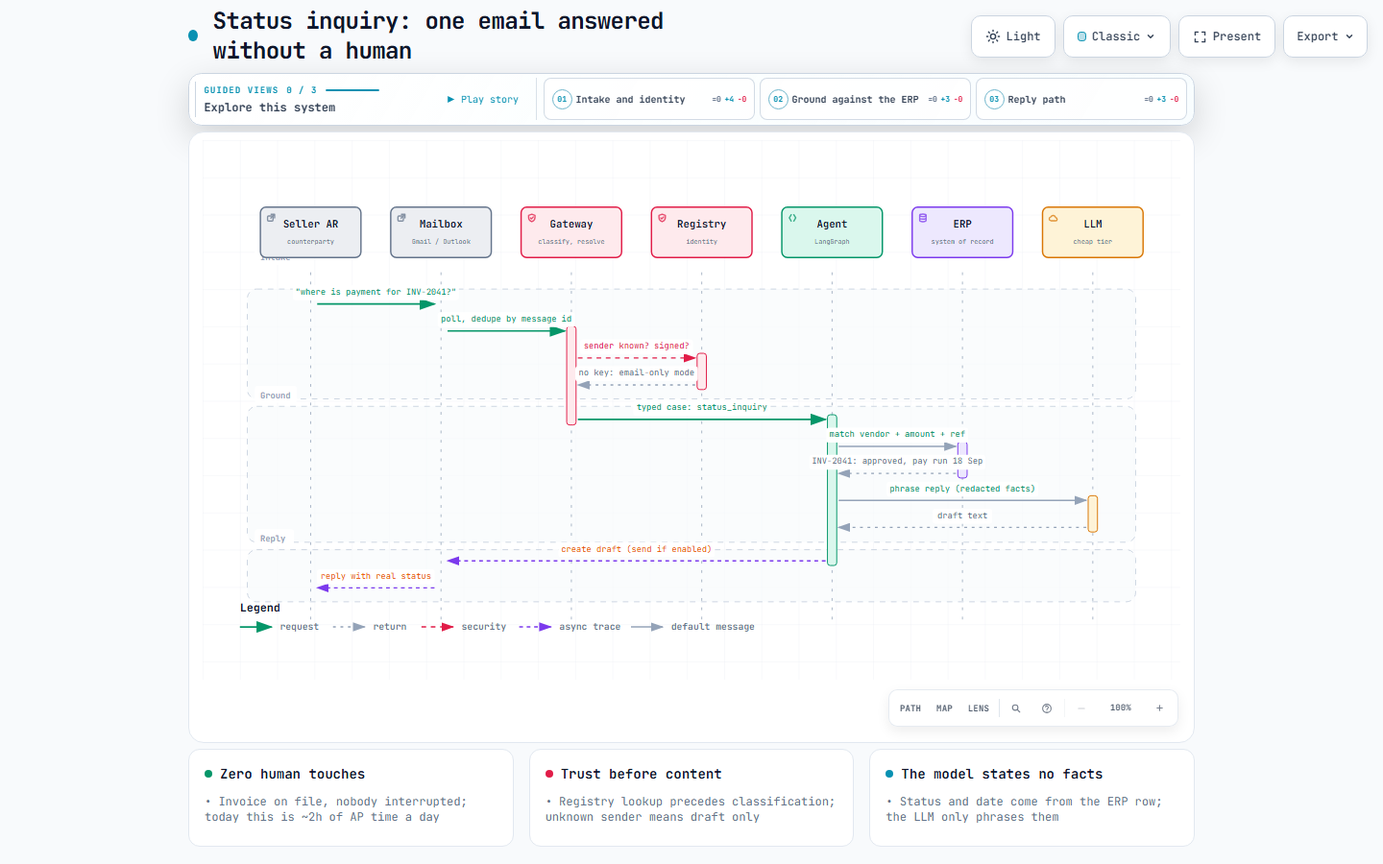
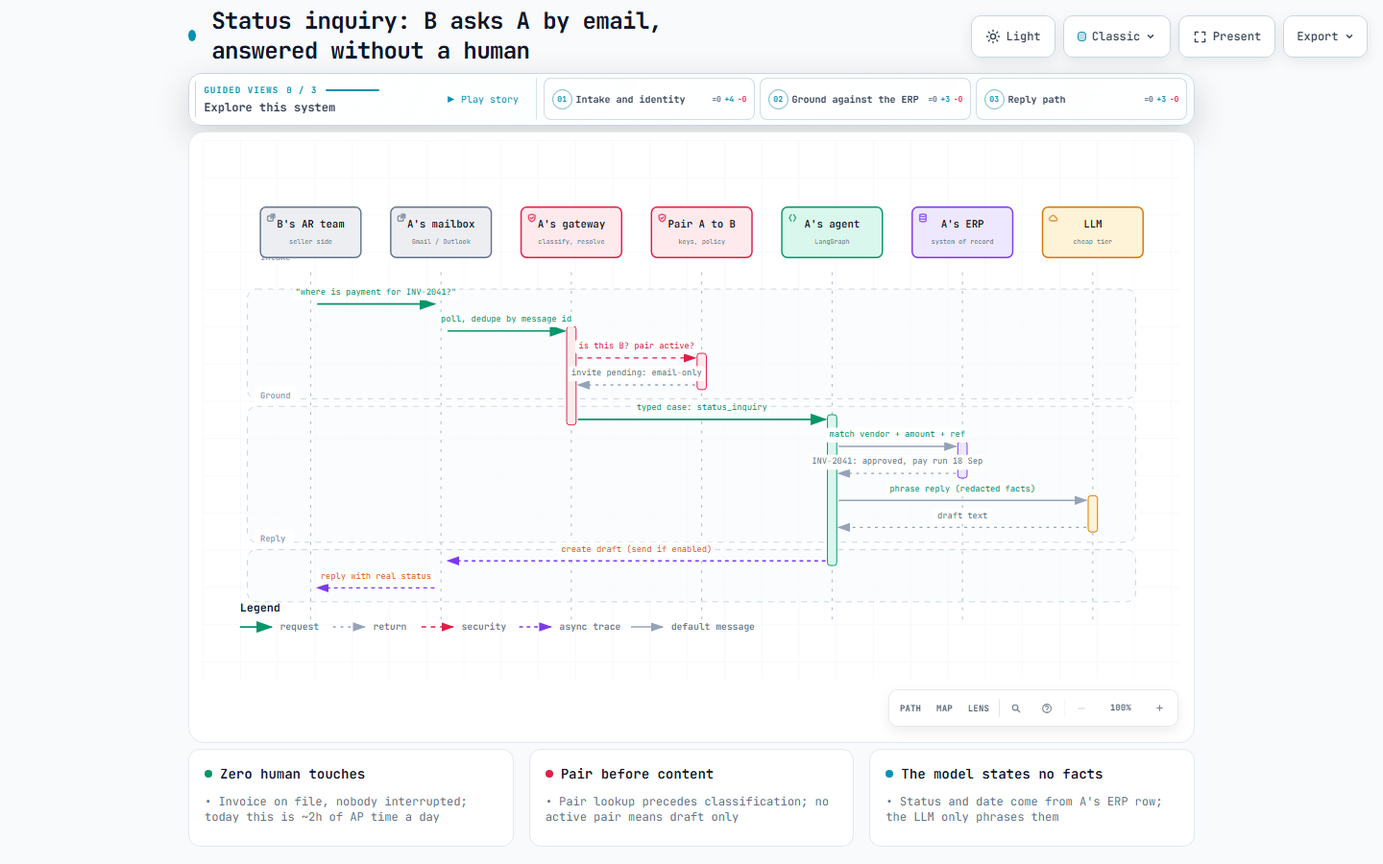
Relabel status-inquiry sequence for the pair model; update diagram index and roadmap
Claude-Session: https://claude.ai/code/session_014V52MLJxxwVzEFNoNt6dGK

diff --git a/docs/diagrams/status-inquiry.html b/docs/diagrams/status-inquiry.html
@@ -4,7 +4,7 @@
   <meta charset="UTF-8">
   <meta name="viewport" content="width=device-width, initial-scale=1.0">
   <meta name="generator" content="archify 2.17.0-dev.1">
-  <title>Status inquiry: one email answered without a human Diagram</title>
+  <title>Status inquiry: B asks A by email, answered without a human Diagram</title>
   <script>
     // Resolve the theme before first paint so light-preference users don't
     // see a dark flash. The toolbar script below re-applies with UI state.
@@ -4955,11 +4955,11 @@
            data-preset-badge-blueprint="BLUEPRINT / REV 01"
            data-preset-badge-editorial="EDITORIAL / FIELD NOTE">
         <div class="pulse-dot"></div>
-        <h1>Status inquiry: one email answered without a human</h1>
+        <h1>Status inquiry: B asks A by email, answered without a human</h1>
       </div>
     </div>
 
-    <script id="archify-guided-views-data" type="application/json">[{"id":"intake","label":"Intake and identity","focus":["seller","mailbox","gateway","registry"],"note":"The sender is checked against the registry before anything is trusted. No key means email-only mode."},{"id":"ground","label":"Ground against the ERP","focus":["agent","erp","llm"],"note":"The answer comes from the system of record. The model only phrases it."},{"id":"reply","label":"Reply path","focus":["agent","mailbox","seller"],"note":"Draft by default. Sends only if this counterparty and message type are enabled."}]</script>
+    <script id="archify-guided-views-data" type="application/json">[{"id":"intake","label":"Intake and identity","focus":["seller","mailbox","gateway","registry"],"note":"The sender is matched to a pair before anything is trusted. Invite still pending means email-only mode."},{"id":"ground","label":"Ground against the ERP","focus":["agent","erp","llm"],"note":"The answer comes from A's system of record. The model only phrases it."},{"id":"reply","label":"Reply path","focus":["agent","mailbox","seller"],"note":"Draft by default. Sends only if this pair has autonomous replies switched on for this message type."}]</script>
 
     <script id="archify-i18n-data" type="application/json">{"locale":"en","messages":{"viewer.kind.frontend":"Frontend","viewer.kind.backend":"Backend","viewer.kind.database":"Database","viewer.kind.cloud":"Cloud","viewer.kind.security":"Security","viewer.kind.messagebus":"Message bus","viewer.kind.external":"External","viewer.kind.neutral":"Neutral","viewer.kind.node":"Node","viewer.kind.start":"Start","viewer.kind.active":"Active","viewer.kind.waiting":"Waiting","viewer.kind.decision":"Decision","viewer.kind.success":"Success","viewer.kind.failure":"Failure","viewer.toolbar.actions":"Diagram actions","viewer.theme.toggle.title":"Toggle theme (T)","viewer.theme.toggle":"Toggle color theme","viewer.theme.dark":"Dark","viewer.theme.light":"Light","viewer.preset.choose.title":"Choose visual style (S cycles)","viewer.preset.choose":"Choose visual style","viewer.preset.style":"Style","viewer.preset.menu":"Visual style","viewer.preset.identity":"Visual identity","viewer.preset.cycles":"S cycles","viewer.preset.classic":"Classic","viewer.preset.classic.short":"Classic","viewer.preset.classic.hint":"Stable technical default","viewer.preset.flow":"Signal Flow","viewer.preset.flow.short":"Flow","viewer.preset.flow.hint":"Motion-forward presentation","viewer.preset.blueprint":"Blueprint","viewer.preset.blueprint.hint":"Engineering review","viewer.preset.editorial":"Editorial","viewer.preset.editorial.hint":"Publication and launch notes","viewer.preset.badge.signalFlow":"SIGNAL FLOW","viewer.preset.badge.blueprint":"BLUEPRINT / REV 01","viewer.preset.badge.editorial":"EDITORIAL / FIELD NOTE","viewer.preset.badge.editorialPlate":"ARCHIFY / PLATE 04","viewer.preset.current":"Visual style: {style}. Choose visual style","viewer.motion.live":"Live","viewer.motion.still":"Still","viewer.motion.pause":"Pause motion","viewer.motion.resume":"Resume motion","viewer.motion.reduced":"Motion paused by reduced-motion preference","viewer.motion.hidden":"Motion paused while this page is hidden","viewer.motion.yielding":"Pause motion; currently yielding to {owner}","viewer.motion.yielding.title":"Live preview enabled · yielding to {owner}","viewer.owner.story":"the guided story","viewer.owner.chapter":"the active chapter","viewer.owner.chapterPreview":"the chapter delta preview","viewer.owner.handoff":"the chapter handoff","viewer.owner.route":"Route Probe","viewer.owner.lens":"Semantic Lens","viewer.owner.relationship":"Relationship Preview","viewer.owner.intent":"Intent Trace","viewer.owner.focus":"semantic focus","viewer.owner.legend":"legend preview","viewer.owner.reader":"reader interaction","viewer.present.enter":"Enter presentation stage","viewer.present.enter.title":"Presentation stage (F)","viewer.present.exit":"Exit presentation stage","viewer.present.exit.title":"Exit presentation stage (F or Escape)","viewer.present.present":"Present","viewer.present.exit.label":"Exit","viewer.export.button":"Export","viewer.export.button.title":"Export diagram (E)","viewer.export.diagram":"Export diagram","viewer.export.menu":"Export","viewer.export.subtitle":"Portable, clean outputs","viewer.export.share":"Share","viewer.export.shareCard":"Share Card","viewer.export.routeShareCard":"Route Share Card","viewer.export.reachShareCard":"Reach Share Card","viewer.export.copyShareCard":"Copy Share Card","viewer.export.copyDiagram":"Copy diagram","viewer.export.clipboardPng":"PNG to clipboard","viewer.export.raster":"Raster images","viewer.export.image":"Image","viewer.export.lossless":"Lossless image","viewer.export.compact":"Compact image","viewer.export.modern":"Modern image","viewer.export.vectorMotion":"Vector and motion","viewer.export.vectorMotion.heading":"Vector \u0026 motion","viewer.export.editable":"Editable vector","viewer.export.motion6s":"6s motion","viewer.export.unsupported":"Not supported by this browser","viewer.export.clipboardUnsupported":"Clipboard image write not supported by this browser","viewer.export.clipboardUnsupported.period":"Clipboard image write not supported by this browser.","viewer.export.clipboardUnsupported.short":"Clipboard image write not supported in this browser.","viewer.export.motionUnavailable":"Motion capture unavailable in this browser","viewer.export.webmUnavailable":"WebM unavailable in this browser","viewer.export.failed":"Export failed: {message}","viewer.export.unknownVariant":"Unknown Share Card variant: {variant}","viewer.export.routeRequired":"Trace a route before exporting a Route Share Card","viewer.export.reachRequired":"Trace authored reach before exporting a Reach Share Card","viewer.export.unknown":"unknown","viewer.export.routeFailed":"Route Share Card export failed: {message}","viewer.export.reachFailed":"Reach Share Card export failed: {message}","viewer.export.copyFailed":"Copy failed: {message}","viewer.export.copiedPng":"Copied PNG to clipboard","viewer.export.copiedShare":"Copied Share Card","viewer.export.downloadedShare":"Downloaded Share Card","viewer.export.downloadedRoute":"Downloaded Route Share Card","viewer.export.downloadedReach":"Downloaded Reach Share Card","viewer.export.downloadedWebm":"Downloaded WebM","viewer.export.recording":"Recording 6 seconds of motion…","viewer.export.card.routeSummary.one":"Route: {source} → {target} · {count} directed hop","viewer.export.card.routeSummary.other":"Route: {source} → {target} · {count} directed hops","viewer.export.card.reachSummary":"Authored {direction} from {origin} · {nodes} · {links} · max {hops}","viewer.export.card.node.one":"{count} node","viewer.export.card.node.other":"{count} nodes","viewer.export.card.link.one":"{count} link","viewer.export.card.link.other":"{count} links","viewer.export.card.hop.one":"{count} hop","viewer.export.card.hop.other":"{count} hops","viewer.export.card.routeBadge":"ARCHIFY · ROUTE · {hops}","viewer.export.card.reachBadge":"ARCHIFY · {direction} REACH","viewer.export.card.defaultBadge":"ARCHIFY · {preset} · {theme}","viewer.export.direction.upstream":"Upstream","viewer.export.direction.downstream":"Downstream","viewer.export.error.canvasUnavailable":"Canvas unavailable for {label}","viewer.export.error.contextUnavailable":"2D canvas context unavailable for {label}","viewer.export.error.toBlobUnavailable":"canvas.toBlob unavailable for {label}","viewer.export.error.toBlobNull":"canvas.toBlob returned no data for {label}","viewer.export.error.variantsCombined":"Share Card variants cannot be combined","viewer.export.error.viewerState":"Share Card export could not remove temporary viewer state","viewer.export.error.routeState":"Route Card export could not preserve the resolved route safely","viewer.export.error.reachState":"Reach Card export could not preserve authored reach safely","viewer.export.error.webmRequirements":"WebM motion export requires a trace animation and browser MediaRecorder support","viewer.export.error.mediaRecorder":"MediaRecorder failed","viewer.export.error.emptyWebm":"MediaRecorder produced an empty WebM","viewer.export.error.webmBackground":"SVG background could not be loaded for WebM export","viewer.guided.region":"Guided diagram views","viewer.guided.previous":"Previous guided view","viewer.guided.previous.title":"Previous guided view ([)","viewer.guided.next":"Next guided view","viewer.guided.next.title":"Next guided view (])","viewer.guided.views":"Guided views","viewer.guided.explore":"Explore this system","viewer.guided.intro":"Step through curated paths without changing the source diagram.","viewer.guided.trail":"Story trail","viewer.guided.beat":"Beat","viewer.guided.nextBeat":"Next","viewer.guided.play":"Play guided story","viewer.guided.play.title":"Play guided story (P)","viewer.guided.pause":"Pause guided story","viewer.guided.pause.title":"Pause guided story (P)","viewer.guided.replay":"Replay guided story","viewer.guided.replay.title":"Replay guided story (P)","viewer.guided.playStory":"Play story","viewer.guided.pauseStory":"Pause","viewer.guided.replayStory":"Replay story","viewer.guided.motionUnavailable":"Story playback unavailable while motion is Still","viewer.guided.enableMotion":"Switch motion to Live to play the guided story","viewer.guided.selectBeatLink":"Select a Story Beat to copy its exact link","viewer.guided.copyMoment":"Copy moment","viewer.guided.momentCopied":"Moment link copied","viewer.guided.momentCopyFailed":"Could not copy story moment link","viewer.guided.copied":"Copied","viewer.guided.copyFailed":"Copy failed","viewer.guided.showAll":"Show all","viewer.guided.showAll.aria":"Show entire diagram","viewer.guided.chapters":"Story chapters","viewer.guided.storyTrail":"Story trail for {label}: {count} beats","viewer.guided.chapter.open":"Open chapter {index} of {total}: {label}, {count} stops","viewer.guided.chapter.current":"Current chapter {index} of {total}: {label}, {count} stops","viewer.guided.chapter.selectedNodes":"{count} selected nodes","viewer.guided.chapter.stops":"{count} stops","viewer.guided.chapter.stop.one":"{count} stop","viewer.guided.chapter.stop.other":"{count} stops","viewer.guided.chapter.current.title":"{label} — current chapter, {count} stops","viewer.guided.chapter.delta.expanded":"{stay} stay, {enter} enter, {leave} leave","viewer.guided.chapter.delta.aria":"Open chapter {index} of {total}: {label}. Chapter focus delta: {delta}","viewer.guided.chapter.delta.title":"{label} — {delta} chapter focus","viewer.guided.handoff":"{from} → {to} · via {label}","viewer.guided.share.chapter":"Chapter {index} / {total}","viewer.guided.share.initial":"Chapter 01 / 01","viewer.guided.share.default":"Guided chapter","viewer.guided.state.ready":"Ready","viewer.guided.state.playing":"Playing","viewer.guided.state.settled":"Settled","viewer.guided.state.paused":"Paused","viewer.guided.state.pinned":"Pinned","viewer.guided.state.still":"Still","viewer.guided.share.step":"Step {index} / {total} · {label}","viewer.guided.share.staticMoment":"{step} · Static moment","viewer.guided.share.complete":"{count} steps complete · {note}","viewer.guided.share.settled":"Path settled for reading.","viewer.guided.share.staticPath":"{count} steps · Static path","viewer.guided.share.ready":"{count} steps · Ready","viewer.guided.share.aria":"{state} chapter {index} of {total}: {label}. {beat}. {route}","viewer.guided.beat.start":"Beat {index} / {total} · {label} · starting point","viewer.guided.beat.forward":"Beat {index} / {total} · {from} → {to}","viewer.guided.beat.reverse":"Beat {index} / {total} · {from} → {to} · reverse authored link","viewer.guided.beat.multiple":"Beat {index} / {total} · {from} ⇄ {to} · {count} authored links","viewer.guided.beat.group":"Beat {index} / {total} · {from} · {to} · grouped · no direct link","viewer.guided.beat.aria.prefix":"Story beat {index} of {total}: {label}. ","viewer.guided.beat.aria.start":"Starting point.","viewer.guided.beat.aria.forward":"From {from} through one authored forward relationship.","viewer.guided.beat.aria.reverse":"From {from}; the authored relationship points from {to} to {from}.","viewer.guided.beat.aria.multiple":"From {from} through {count} authored relationships; shown without arbitrary motion.","viewer.guided.beat.aria.group":"Grouped from {from} with no direct authored relationship.","viewer.guided.caption.start":"Starting point","viewer.guided.caption.grouped":"Grouped transition · no direct authored link","viewer.guided.caption.more":" +{count} more","viewer.guided.caption.reverse":"Reverse authored relationship","viewer.guided.caption.relationships":"{count} authored relationships","viewer.guided.caption.relationship":"Authored relationship","viewer.guided.caption.direction":"authored direction: {from} → {to}","viewer.guided.caption.starting":"Authored starting point","viewer.guided.beatLink":"Copy link to current story moment: Beat {index} of {total}: {label}","viewer.guided.noStory":"This diagram has no authored guided story.","viewer.guide.eyebrow":"Diagram guide","viewer.guide.close":"Close diagram guide","viewer.guide.inspecting":"Inspecting compiled semantics","viewer.guide.actions":"Diagram exploration actions","viewer.guide.find":"Find any node","viewer.guide.find.hint":"Search labels, responsibilities, kinds, and stable IDs.","viewer.guide.route":"Trace a route","viewer.guide.route.aria":"Trace a directed route","viewer.guide.route.hint":"Ask how two semantic nodes connect in authored direction.","viewer.guide.map":"See the whole system","viewer.guide.map.hint":"Open Semantic Radar with a live viewport and stable nodes.","viewer.guide.lens":"Compare semantic kinds","viewer.guide.lens.hint":"Count roles, reveal their traffic, and compare direct authored links.","viewer.guide.story":"Play the guided story","viewer.guide.story.hint":"Walk the authored chapters and real relationships.","viewer.guide.present":"Enter Presentation Stage","viewer.guide.present.hint":"Give the live diagram the viewport without changing export.","viewer.guide.shortcuts":"Additional keyboard shortcuts","viewer.guide.shortcut.export":"Export","viewer.guide.shortcut.theme":"Theme","viewer.guide.shortcut.style":"Style","viewer.guide.shortcut.reset":"Reset","viewer.guide.shortcut.zoomIn":"Zoom in","viewer.guide.shortcut.zoomOut":"Zoom out","viewer.guide.shortcut.close":"Close","viewer.guide.facts":"{nodes} · {relationships} · {views}","viewer.guide.fact.node.one":"{count} semantic node","viewer.guide.fact.node.other":"{count} semantic nodes","viewer.guide.fact.relationship.one":"{count} relationship","viewer.guide.fact.relationship.other":"{count} relationships","viewer.guide.fact.view.one":"{count} guided view","viewer.guide.fact.view.other":"{count} guided views","viewer.guide.story.available.one":"Walk {count} authored chapter and its real relationships.","viewer.guide.story.available.other":"Walk {count} authored chapters and their real relationships.","viewer.guide.story.unavailable":"No authored guided story in this diagram.","viewer.guide.open":"Open diagram guide","viewer.guide.noStory":"This diagram has no authored guided story.","viewer.finder.title":"Find a node","viewer.finder.close":"Close node finder","viewer.finder.placeholder":"Search labels or IDs","viewer.finder.search":"Search diagram nodes","viewer.finder.results":"Diagram nodes","viewer.finder.empty":"No matching nodes","viewer.finder.result.focus":"Focus {label}","viewer.finder.result.routeStart":"Choose {label} as route start","viewer.finder.result.routeTarget":"Choose {label} as route destination, {links}","viewer.finder.status.empty":"No matching nodes","viewer.finder.status.count.one":"{count} matching node","viewer.finder.status.count.other":"{count} matching nodes","viewer.finder.noun.nodes":"nodes","viewer.finder.link.one":"{count} link","viewer.finder.link.other":"{count} links","viewer.finder.result.focus.one":"Focus {label}, {count} related connection","viewer.finder.result.focus.other":"Focus {label}, {count} related connections","viewer.finder.status.filtered":"{visible} of {available} {noun}","viewer.finder.status.all":"{available} {noun}","viewer.passport.eyebrow":"Semantic passport","viewer.passport.metadata":"Node metadata","viewer.passport.evidence":"Verified source evidence","viewer.passport.verified":"Verified source","viewer.passport.reach":"Authored reach","viewer.passport.reach.trace":"Trace authored reachability","viewer.passport.upstream":"Upstream","viewer.passport.downstream":"Downstream","viewer.passport.upstream.trace":"Trace upstream authored reachability","viewer.passport.downstream.trace":"Trace downstream authored reachability","viewer.passport.close":"Close semantic passport","viewer.passport.copy":"Copy link","viewer.passport.copy.focus":"Copy link to focused node","viewer.passport.relations":"Relations","viewer.passport.relations.show":"Show connected relationships","viewer.passport.relations.hide":"Hide connected relationships","viewer.passport.relations.list":"Connected relationships","viewer.passport.copyRelation":"Copy relation","viewer.passport.copyNode":"Copy node","viewer.passport.copyPinned":"Copy link to pinned relationship","viewer.passport.copySource":"Copy link to source node","viewer.passport.copy.focused.success":"Focused node link copied","viewer.passport.copy.pinned.success":"Pinned relationship link copied","viewer.passport.copy.focused.failed":"Could not copy focused node link","viewer.passport.copy.pinned.failed":"Could not copy pinned relationship link","viewer.passport.relationship.none":"No connected relationships","viewer.passport.relationship.count.one":"{count} relation","viewer.passport.relationship.count.other":"{count} relations","viewer.passport.relationship.show.one":"Show {count} connected relationship","viewer.passport.relationship.show.other":"Show {count} connected relationships","viewer.passport.relationship.summary":"{out} outgoing · {in} incoming{loops}","viewer.passport.relationship.loops":" · {count} loop","viewer.passport.relationship.explorer":"Direct relationship explorer","viewer.passport.relationship.help":"Use arrow keys to explore relationships. Press Enter or Space to pin details; Escape clears.","viewer.passport.relationship.loopsBack":"loops back","viewer.passport.relationship.connectsTo":"connects to","viewer.passport.relationship.connectsFrom":"connects from","viewer.passport.relationship.pinned":"Pinned relationship · {from} → {to} · {label}","viewer.passport.relationship.inspect":"Inspect relationship {index} of {total}: {from} to {to}, {label}. Press Enter for details.","viewer.passport.relationship.group.out":"Outgoing","viewer.passport.relationship.group.in":"Incoming","viewer.passport.relationship.group.loop":"Self loops","viewer.passport.relationship.row":"{group}: {relationship}, {neighbor}","viewer.passport.relationship.direction.out":"OUT →","viewer.passport.relationship.direction.in":"← IN","viewer.passport.relationship.direction.loop":"LOOP","viewer.passport.sourceCount.one":"{count} verified source reference","viewer.passport.sourceCount.other":"{count} verified source references","viewer.passport.sourceMarker":"SRC","viewer.passport.beacon.one":"{count} verified source; focus this node to inspect","viewer.passport.beacon.other":"{count} verified sources; focus this node to inspect","viewer.passport.repository.open":"Open verified repository revision {revision}","viewer.passport.source.open":"Open verified source {path} at revision {revision}","viewer.passport.source.openLink":"Open ↗","viewer.passport.reach.upstream.one":"Trace {count} upstream authored node","viewer.passport.reach.upstream.other":"Trace {count} upstream authored nodes","viewer.passport.reach.downstream.one":"Trace {count} downstream authored node","viewer.passport.reach.downstream.other":"Trace {count} downstream authored nodes","viewer.passport.reach.noUpstream":"No upstream authored nodes","viewer.passport.reach.noDownstream":"No downstream authored nodes","viewer.passport.reach.status":"{direction} · {nodes} nodes · {links} links · max {hops} hops","viewer.route.eyebrow":"Route probe","viewer.route.start":"Choose a start node","viewer.route.start.find":"Find start","viewer.route.start.find.aria":"Find a route start","viewer.route.copy":"Copy link","viewer.route.copy.aria":"Copy link to traced route","viewer.route.clear":"Clear","viewer.route.clear.aria":"Clear route probe","viewer.route.traced":"Traced route","viewer.route.pickTwo":"Pick two semantic nodes on the diagram","viewer.route.pickOne":"Pick a semantic node on the diagram","viewer.route.controls":"Route journey controls","viewer.route.previous":"Previous route position","viewer.route.play":"Play route journey","viewer.route.pause":"Pause route journey","viewer.route.replay":"Replay route journey","viewer.route.next":"Next route position","viewer.route.journey":"Journey","viewer.route.pause.label":"Pause","viewer.route.replay.label":"Replay","viewer.route.overview":"Overview","viewer.route.overview.aria":"Show complete route overview","viewer.route.instructions":"Choose the source, then the destination. Direction matters.","viewer.route.destination":"Choose a destination from {label}","viewer.route.destination.find":"Find target","viewer.route.destination.find.aria":"Find a reachable route destination","viewer.route.differentDestination":"Choose a different destination","viewer.route.distinct":"A route needs two distinct semantic nodes.","viewer.route.unreachable":"No directed route to {label}","viewer.route.unreachable.detail":"{target} is not reachable from {source}. Pick a highlighted destination.","viewer.route.start.instructions":"Select the source. The next step will reveal only directed destinations.","viewer.route.copy.success":"Traced route link copied","viewer.route.copy.failed":"Could not copy traced route link","viewer.route.position":"Route position {index} of {total}: {label}","viewer.route.step":"Step {index} of {total} · {phase} · {label}","viewer.route.motionRequired":"Automatic journey requires Live motion","viewer.route.trigger.clear":"Clear traced route","viewer.route.overview.status":"{nodes} · {hops} · shortest authored route","viewer.route.overview.node.one":"{count} node","viewer.route.overview.node.other":"{count} nodes","viewer.route.overview.hop.one":"{count} directed hop","viewer.route.overview.hop.other":"{count} directed hops","viewer.route.phase.playing":"Playing","viewer.route.phase.complete":"Complete","viewer.route.phase.inspecting":"Inspecting","viewer.route.destination.count.one":"{count} directed destination available. Pick a highlighted node.","viewer.route.destination.count.other":"{count} directed destinations available. Pick a highlighted node.","viewer.route.noOutgoing":"No outgoing route starts here. Clear and choose another source.","viewer.route.result.title":"{source} to {target}","viewer.route.finder.source.title":"Choose route start","viewer.route.finder.source.placeholder":"Search route sources","viewer.route.finder.source.empty":"No matching route sources","viewer.route.finder.source.results":"Nodes that can start a route","viewer.route.finder.source.noun":"route sources","viewer.route.finder.source.badge":"start","viewer.route.finder.target.title":"Destination from {label}","viewer.route.finder.target.placeholder":"Search reachable destinations","viewer.route.finder.target.empty":"No matching reachable destinations","viewer.route.finder.target.results":"Reachable route destinations","viewer.route.finder.target.noun":"reachable destinations","viewer.route.hop.one":"{count} hop","viewer.route.hop.other":"{count} hops","viewer.lens.eyebrow":"Semantic lens","viewer.lens.title":"Compare system roles","viewer.lens.close":"Close semantic lens","viewer.lens.instruction":"Choose up to two semantic kinds. One reveals its real traffic; two compare only direct authored relationships.","viewer.lens.kinds":"Semantic kinds","viewer.lens.choose":"Choose a kind to inspect its nodes and touching relationships.","viewer.lens.copy":"Copy link to semantic lens","viewer.lens.clear":"Clear semantic lens","viewer.lens.open":"Open semantic lens","viewer.lens.openActive":"Open active semantic lens","viewer.lens.legend":"Semantic legend","viewer.lens.legend.inspect.one":"Inspect {label}, {count} node","viewer.lens.legend.inspect.other":"Inspect {label}, {count} nodes","viewer.lens.kind.count.one":"{label}, {count} node","viewer.lens.kind.count.other":"{label}, {count} nodes","viewer.lens.compare.one":"{first} → {second}: {forward} · {second} → {first}: {reverse} · {count} direct relationship","viewer.lens.compare.other":"{first} → {second}: {forward} · {second} → {first}: {reverse} · {count} direct relationships","viewer.lens.single":"{nodes} · {relationships} · connected peers remain visible","viewer.lens.node.one":"{count} {label} node","viewer.lens.node.other":"{count} {label} nodes","viewer.lens.relationship.one":"{count} touching relationship","viewer.lens.relationship.other":"{count} touching relationships","viewer.radar.title":"Semantic radar","viewer.radar.building":"Building overview","viewer.radar.openFull":"Open full semantic radar","viewer.radar.open":"Open radar","viewer.radar.close":"Close semantic radar","viewer.radar.surface":"Diagram overview. Click a node to focus it, or use arrow keys to pan.","viewer.radar.click":"Click node","viewer.radar.drag":"Drag to pan","viewer.radar.space":"Semantic radar needs more MAP space.","viewer.radar.nodes":"Semantic diagram radar nodes","viewer.radar.focus":"Focus {label} from Semantic Radar","viewer.radar.status":"{count} nodes · {viewport}","viewer.radar.fullMap":"{count} nodes · full map","viewer.radar.compacted":"Radar compacted to avoid covering the Semantic Passport or MAP controls.","viewer.radar.cancelWaiting":"Cancel semantic radar waiting for more MAP space","viewer.radar.needsSpace":"Semantic radar needs more visible MAP space","viewer.radar.viewport.full":"full map","viewer.radar.viewport.width":"{percent}% width","viewer.radar.viewport.scale":"{percent}% viewport","viewer.nav.controls":"Diagram view controls","viewer.nav.route":"Trace a directed route","viewer.nav.route.title":"Trace route (R)","viewer.nav.route.short":"PATH","viewer.nav.radar":"Open semantic radar","viewer.nav.radar.title":"Semantic radar (M)","viewer.nav.radar.short":"MAP","viewer.nav.lens":"Open semantic lens","viewer.nav.lens.title":"Semantic lens (L)","viewer.nav.lens.short":"LENS","viewer.nav.find":"Find a node","viewer.nav.find.title":"Find a node (/)","viewer.nav.guide":"Open diagram guide","viewer.nav.guide.title":"Diagram guide (?)","viewer.nav.zoomOut":"Zoom out","viewer.nav.zoomOut.title":"Zoom out (-)","viewer.nav.reset":"Reset diagram view","viewer.nav.reset.title":"Reset view (0)","viewer.nav.read":"READ","viewer.nav.zoomIn":"Zoom in","viewer.nav.zoomIn.title":"Zoom in (+)","viewer.nav.camera":"{hint}. Reset diagram view","viewer.nav.camera.title":"{semantic}{hint} · reset view (0)","viewer.nav.camera.semantic":"Semantic camera active · ","viewer.nav.level.map":"MAP","viewer.nav.level.read":"READ","viewer.nav.level.full":"FULL","viewer.nav.level.auto":"AUTO","viewer.nav.detail.map":"Zoom in to reveal relationship labels and node context","viewer.nav.detail.read":"Zoom in again to reveal tags and annotations","viewer.nav.detail.full":"Full diagram detail","viewer.intent.summary":"{label}. {out} outgoing, {in} incoming{loops}. {total} connections. Press Enter for details.","viewer.intent.loops":", {count} self loop","viewer.common.copied":"Copied","viewer.common.copyFailed":"Copy failed","viewer.common.copyLink":"Copy link","viewer.common.clear":"Clear","viewer.common.close":"Close"}}</script>
     <div class="guided-views no-print" id="guided-views" hidden aria-label="Guided diagram views">
@@ -5005,7 +5005,7 @@
     <div class="diagram-container" data-detail-level="read"
          data-preset-badge-editorial-plate="ARCHIFY / PLATE 04">
       <svg viewBox="0 0 1050 580" role="img" lang="en" aria-labelledby="archify-diagram-title archify-diagram-description" data-preset="classic" data-quality-profile="showcase">
-        <title id="archify-diagram-title">Status inquiry: one email answered without a human</title>
+        <title id="archify-diagram-title">Status inquiry: B asks A by email, answered without a human</title>
         <desc id="archify-diagram-description">A sequence diagram generated by Archify.</desc>
         <!-- Definitions -->
         <defs>
@@ -5074,19 +5074,19 @@
         </g>
         </g>
 
-        <g data-edge-from="gateway" data-edge-to="registry" data-edge-label="sender known? signed?" data-edge-key="2">
+        <g data-edge-from="gateway" data-edge-to="registry" data-edge-label="is this B? pair active?" data-edge-key="2">
           <path data-composition-edge-from="gateway" data-composition-edge-to="registry" data-composition-points="403,234;529,234" d="M 403 234 L 529 234" class="a-security" stroke-width="1.4" marker-end="url(#arrowhead-security)"/>
         <g data-detail="context">
-          <rect x="405.4" y="214" width="121.2" height="16" rx="3" class="c-mask"/>
-          <text x="466" y="224" class="t-security" font-size="9" text-anchor="middle">sender known? signed?</text>
+          <rect x="400.2" y="214" width="131.60000000000002" height="16" rx="3" class="c-mask"/>
+          <text x="466" y="224" class="t-security" font-size="9" text-anchor="middle">is this B? pair active?</text>
         </g>
         </g>
 
-        <g data-edge-from="registry" data-edge-to="gateway" data-edge-label="no key: email-only mode" data-edge-key="3">
+        <g data-edge-from="registry" data-edge-to="gateway" data-edge-label="invite pending: email-only" data-edge-key="3">
           <path data-composition-edge-from="registry" data-composition-edge-to="gateway" data-composition-points="529,263;403,263" d="M 529 263 L 403 263" class="a-default" stroke-width="1.4" stroke-dasharray="3,5" marker-end="url(#arrowhead)"/>
         <g data-detail="context">
-          <rect x="400.2" y="243" width="131.60000000000002" height="16" rx="3" class="c-mask"/>
-          <text x="466" y="253" class="t-muted" font-size="9" text-anchor="middle">no key: email-only mode</text>
+          <rect x="392.4" y="243" width="147.20000000000002" height="16" rx="3" class="c-mask"/>
+          <text x="466" y="253" class="t-muted" font-size="9" text-anchor="middle">invite pending: email-only</text>
         </g>
         </g>
 
@@ -5162,74 +5162,74 @@
         </g>
 
         <!-- Participants -->
-        <g id="node-seller" data-node-id="seller" data-node-label="Seller AR" tabindex="0" role="button" aria-label="Focus Seller AR, counterparty, Sequence participant" aria-pressed="false" data-node-kind="external" data-node-sublabel="counterparty" data-node-context="Sequence participant">
-          <title>Seller AR · counterparty · Sequence participant</title>
+        <g id="node-seller" data-node-id="seller" data-node-label="B&#39;s AR team" tabindex="0" role="button" aria-label="Focus B&#39;s AR team, seller side, Sequence participant" aria-pressed="false" data-node-kind="external" data-node-sublabel="seller side" data-node-context="Sequence participant">
+          <title>B&#39;s AR team · seller side · Sequence participant</title>
           <rect x="62" y="72" width="108" height="54" rx="6" class="c-mask"/>
           <rect x="62" y="72" width="108" height="54" rx="6" class="c-external" stroke-width="1.5"/>
           <g aria-hidden="true" data-semantic-sigil="external" class="semantic-sigil s-external" transform="translate(68 78) scale(0.6875)">
             <rect x="2.5" y="5" width="8.5" height="8" rx="1.5"/>
             <path d="M8 2.5h5.5V8M13.5 2.5 7.5 8.5"/>
           </g>
-          <text data-node-label="" data-detail-anchor="" x="116" y="94" class="t-primary" font-size="11" font-weight="600" text-anchor="middle">Seller AR</text>
-          <text data-detail="context" x="116" y="111" class="t-muted" font-size="7" text-anchor="middle">counterparty</text>
+          <text data-node-label="" data-detail-anchor="" x="116" y="94" class="t-primary" font-size="11" font-weight="600" text-anchor="middle">B&#39;s AR team</text>
+          <text data-detail="context" x="116" y="111" class="t-muted" font-size="7" text-anchor="middle">seller side</text>
         </g>
 
-        <g id="node-mailbox" data-node-id="mailbox" data-node-label="Mailbox" tabindex="0" role="button" aria-label="Focus Mailbox, Gmail / Outlook, Sequence participant" aria-pressed="false" data-node-kind="external" data-node-sublabel="Gmail / Outlook" data-node-context="Sequence participant">
-          <title>Mailbox · Gmail / Outlook · Sequence participant</title>
+        <g id="node-mailbox" data-node-id="mailbox" data-node-label="A&#39;s mailbox" tabindex="0" role="button" aria-label="Focus A&#39;s mailbox, Gmail / Outlook, Sequence participant" aria-pressed="false" data-node-kind="external" data-node-sublabel="Gmail / Outlook" data-node-context="Sequence participant">
+          <title>A&#39;s mailbox · Gmail / Outlook · Sequence participant</title>
           <rect x="202" y="72" width="108" height="54" rx="6" class="c-mask"/>
           <rect x="202" y="72" width="108" height="54" rx="6" class="c-external" stroke-width="1.5"/>
           <g aria-hidden="true" data-semantic-sigil="external" class="semantic-sigil s-external" transform="translate(208 78) scale(0.6875)">
             <rect x="2.5" y="5" width="8.5" height="8" rx="1.5"/>
             <path d="M8 2.5h5.5V8M13.5 2.5 7.5 8.5"/>
           </g>
-          <text data-node-label="" data-detail-anchor="" x="256" y="94" class="t-primary" font-size="11" font-weight="600" text-anchor="middle">Mailbox</text>
+          <text data-node-label="" data-detail-anchor="" x="256" y="94" class="t-primary" font-size="11" font-weight="600" text-anchor="middle">A&#39;s mailbox</text>
           <text data-detail="context" x="256" y="111" class="t-muted" font-size="7" text-anchor="middle">Gmail / Outlook</text>
         </g>
 
-        <g id="node-gateway" data-node-id="gateway" data-node-label="Gateway" tabindex="0" role="button" aria-label="Focus Gateway, classify, resolve, Sequence participant" aria-pressed="false" data-node-kind="security" data-node-sublabel="classify, resolve" data-node-context="Sequence participant">
-          <title>Gateway · classify, resolve · Sequence participant</title>
+        <g id="node-gateway" data-node-id="gateway" data-node-label="A&#39;s gateway" tabindex="0" role="button" aria-label="Focus A&#39;s gateway, classify, resolve, Sequence participant" aria-pressed="false" data-node-kind="security" data-node-sublabel="classify, resolve" data-node-context="Sequence participant">
+          <title>A&#39;s gateway · classify, resolve · Sequence participant</title>
           <rect x="342" y="72" width="108" height="54" rx="6" class="c-mask"/>
           <rect x="342" y="72" width="108" height="54" rx="6" class="c-security" stroke-width="1.5"/>
           <g aria-hidden="true" data-semantic-sigil="security" class="semantic-sigil s-security" transform="translate(348 78) scale(0.6875)">
             <path d="M8 2.2 13 4v3.5c0 3.1-1.8 5.4-5 6.5-3.2-1.1-5-3.4-5-6.5V4Z"/>
             <path d="m5.8 8 1.5 1.5 3-3"/>
           </g>
-          <text data-node-label="" data-detail-anchor="" x="396" y="94" class="t-primary" font-size="11" font-weight="600" text-anchor="middle">Gateway</text>
+          <text data-node-label="" data-detail-anchor="" x="396" y="94" class="t-primary" font-size="11" font-weight="600" text-anchor="middle">A&#39;s gateway</text>
           <text data-detail="context" x="396" y="111" class="t-muted" font-size="7" text-anchor="middle">classify, resolve</text>
         </g>
 
-        <g id="node-registry" data-node-id="registry" data-node-label="Registry" tabindex="0" role="button" aria-label="Focus Registry, identity, Sequence participant" aria-pressed="false" data-node-kind="security" data-node-sublabel="identity" data-node-context="Sequence participant">
-          <title>Registry · identity · Sequence participant</title>
+        <g id="node-registry" data-node-id="registry" data-node-label="Pair A to B" tabindex="0" role="button" aria-label="Focus Pair A to B, keys, policy, Sequence participant" aria-pressed="false" data-node-kind="security" data-node-sublabel="keys, policy" data-node-context="Sequence participant">
+          <title>Pair A to B · keys, policy · Sequence participant</title>
           <rect x="482" y="72" width="108" height="54" rx="6" class="c-mask"/>
           <rect x="482" y="72" width="108" height="54" rx="6" class="c-security" stroke-width="1.5"/>
           <g aria-hidden="true" data-semantic-sigil="security" class="semantic-sigil s-security" transform="translate(488 78) scale(0.6875)">
             <path d="M8 2.2 13 4v3.5c0 3.1-1.8 5.4-5 6.5-3.2-1.1-5-3.4-5-6.5V4Z"/>
             <path d="m5.8 8 1.5 1.5 3-3"/>
           </g>
-          <text data-node-label="" data-detail-anchor="" x="536" y="94" class="t-primary" font-size="11" font-weight="600" text-anchor="middle">Registry</text>
-          <text data-detail="context" x="536" y="111" class="t-muted" font-size="7" text-anchor="middle">identity</text>
+          <text data-node-label="" data-detail-anchor="" x="536" y="94" class="t-primary" font-size="11" font-weight="600" text-anchor="middle">Pair A to B</text>
+          <text data-detail="context" x="536" y="111" class="t-muted" font-size="7" text-anchor="middle">keys, policy</text>
         </g>
 
-        <g id="node-agent" data-node-id="agent" data-node-label="Agent" tabindex="0" role="button" aria-label="Focus Agent, LangGraph, Sequence participant" aria-pressed="false" data-node-kind="backend" data-node-sublabel="LangGraph" data-node-context="Sequence participant">
-          <title>Agent · LangGraph · Sequence participant</title>
+        <g id="node-agent" data-node-id="agent" data-node-label="A&#39;s agent" tabindex="0" role="button" aria-label="Focus A&#39;s agent, LangGraph, Sequence participant" aria-pressed="false" data-node-kind="backend" data-node-sublabel="LangGraph" data-node-context="Sequence participant">
+          <title>A&#39;s agent · LangGraph · Sequence participant</title>
           <rect x="622" y="72" width="108" height="54" rx="6" class="c-mask"/>
           <rect x="622" y="72" width="108" height="54" rx="6" class="c-backend" stroke-width="1.5"/>
           <g aria-hidden="true" data-semantic-sigil="backend" class="semantic-sigil s-backend" transform="translate(628 78) scale(0.6875)">
             <path d="M6 3 3 8l3 5M10 3l3 5-3 5"/>
           </g>
-          <text data-node-label="" data-detail-anchor="" x="676" y="94" class="t-primary" font-size="11" font-weight="600" text-anchor="middle">Agent</text>
+          <text data-node-label="" data-detail-anchor="" x="676" y="94" class="t-primary" font-size="11" font-weight="600" text-anchor="middle">A&#39;s agent</text>
           <text data-detail="context" x="676" y="111" class="t-muted" font-size="7" text-anchor="middle">LangGraph</text>
         </g>
 
-        <g id="node-erp" data-node-id="erp" data-node-label="ERP" tabindex="0" role="button" aria-label="Focus ERP, system of record, Sequence participant" aria-pressed="false" data-node-kind="database" data-node-sublabel="system of record" data-node-context="Sequence participant">
-          <title>ERP · system of record · Sequence participant</title>
+        <g id="node-erp" data-node-id="erp" data-node-label="A&#39;s ERP" tabindex="0" role="button" aria-label="Focus A&#39;s ERP, system of record, Sequence participant" aria-pressed="false" data-node-kind="database" data-node-sublabel="system of record" data-node-context="Sequence participant">
+          <title>A&#39;s ERP · system of record · Sequence participant</title>
           <rect x="762" y="72" width="108" height="54" rx="6" class="c-mask"/>
           <rect x="762" y="72" width="108" height="54" rx="6" class="c-database" stroke-width="1.5"/>
           <g aria-hidden="true" data-semantic-sigil="database" class="semantic-sigil s-database" transform="translate(768 78) scale(0.6875)">
             <ellipse cx="8" cy="4" rx="5" ry="2"/>
             <path d="M3 4v8c0 1.1 2.2 2 5 2s5-.9 5-2V4M3 8c0 1.1 2.2 2 5 2s5-.9 5-2"/>
           </g>
-          <text data-node-label="" data-detail-anchor="" x="816" y="94" class="t-primary" font-size="11" font-weight="600" text-anchor="middle">ERP</text>
+          <text data-node-label="" data-detail-anchor="" x="816" y="94" class="t-primary" font-size="11" font-weight="600" text-anchor="middle">A&#39;s ERP</text>
           <text data-detail="context" x="816" y="111" class="t-muted" font-size="7" text-anchor="middle">system of record</text>
         </g>
 
@@ -5467,10 +5467,10 @@
       <div class="card">
         <div class="card-header">
           <div class="card-dot rose"></div>
-          <h3>Trust before content</h3>
+          <h3>Pair before content</h3>
         </div>
         <ul>
-          <li>&bull; Registry lookup precedes classification; unknown sender means draft only</li>
+          <li>&bull; Pair lookup precedes classification; no active pair means draft only</li>
         </ul>
       </div>
 
@@ -5480,7 +5480,7 @@
           <h3>The model states no facts</h3>
         </div>
         <ul>
-          <li>&bull; Status and date come from the ERP row; the LLM only phrases them</li>
+          <li>&bull; Status and date come from A&#39;s ERP row; the LLM only phrases them</li>
         </ul>
       </div>
     </div>

diff --git a/ROADMAP.md b/ROADMAP.md
@@ -26,14 +26,20 @@ In order:
 9. Hosting: API + worker on Fly.io or Railway, Postgres on Neon, frontend on
    Vercel or Cloudflare Pages.
 ds.
-5. **Guardrail gaps.** Company-scoped approvers (R8), per-workflow caps (R16),
-   tool allowlist (R17). Why: turns "happens to be safe" into "cannot be
+5. **Pair table and guardrail gaps.** A `pair` row owning contract, policy,
+   approvers per side, channel, caps (R19, R20); approvers scoped to a pair
+   side (R8); per-workflow caps (R16); tool allowlist (R17). Why: turns "happens to be safe" into "cannot be
    unsafe".
 6. **Update BRAIN.md with the 2026-09-07 decisions.**
    Why: it is the history doc and it still ends before the restart.
 
 ## Done
 
+- 2026-09-08 Product model regroup: the unit of deployment is a pair of
+  companies, not a company or a network. BRAIN.md entry, PRD v0.2 (section
+  2a, R19 to R21), architecture and status-inquiry diagrams redrawn. Why:
+  the PRD had been written from the code, and the code was a platform view
+  the user never wanted.
 - 2026-09-08 Four money-path bugs fixed (R6..R9): revalidation checks the
   executed proposal's own rate; rates outside (0, 1] rejected; `escalate`
   only rejects its own workflow's proposal; contract-less invoice is a

diff --git a/docs/diagrams/README.md b/docs/diagrams/README.md
@@ -6,8 +6,8 @@ a self-contained interactive HTML, and captured once as a 1440px PNG.
 
 | Diagram | Type | Shows |
 |---|---|---|
-| `architecture` | architecture | Target components from the PRD, trust boundary, what exists in `src/` today |
-| `status-inquiry` | sequence | One "where is my payment" email answered with zero human touches |
+| `architecture` | architecture | One pair, two company instances, the pair in the middle (PRD v0.2) |
+| `status-inquiry` | sequence | B asks A "where is my payment" by email, answered with zero human touches |
 | `claim-lifecycle` | lifecycle | A discount claim from received to executed, declined, awaiting, or expired |
 | `pii-dataflow` | dataflow | Which text leaves the company for the model, which stays in house |
 
@@ -15,5 +15,6 @@ Regenerate after editing a JSON (skill installed at `~/.claude/skills/archify`):
 
 ```bash
 node ~/.claude/skills/archify/bin/archify.mjs deliver <type> <name>.json <name>.html --quality showcase --repo-root ../..
+# --repo-root only for the architecture type; drop it for sequence, lifecycle, dataflow
 node ~/.claude/skills/archify/bin/archify.mjs visual-check <name>.html --json
 ```
